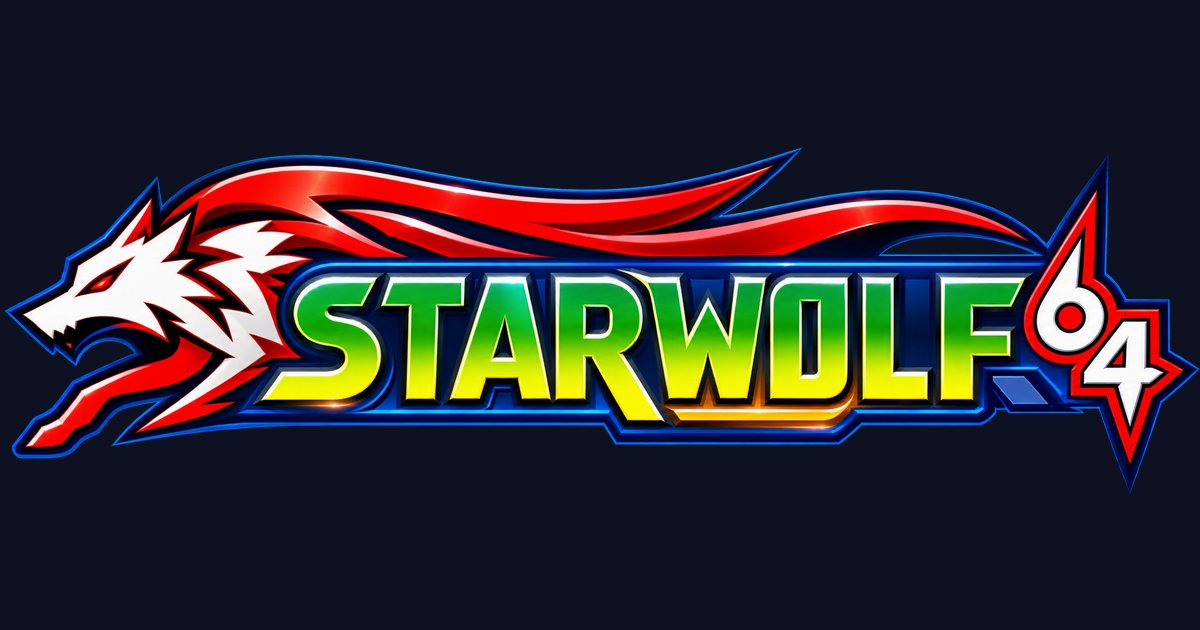
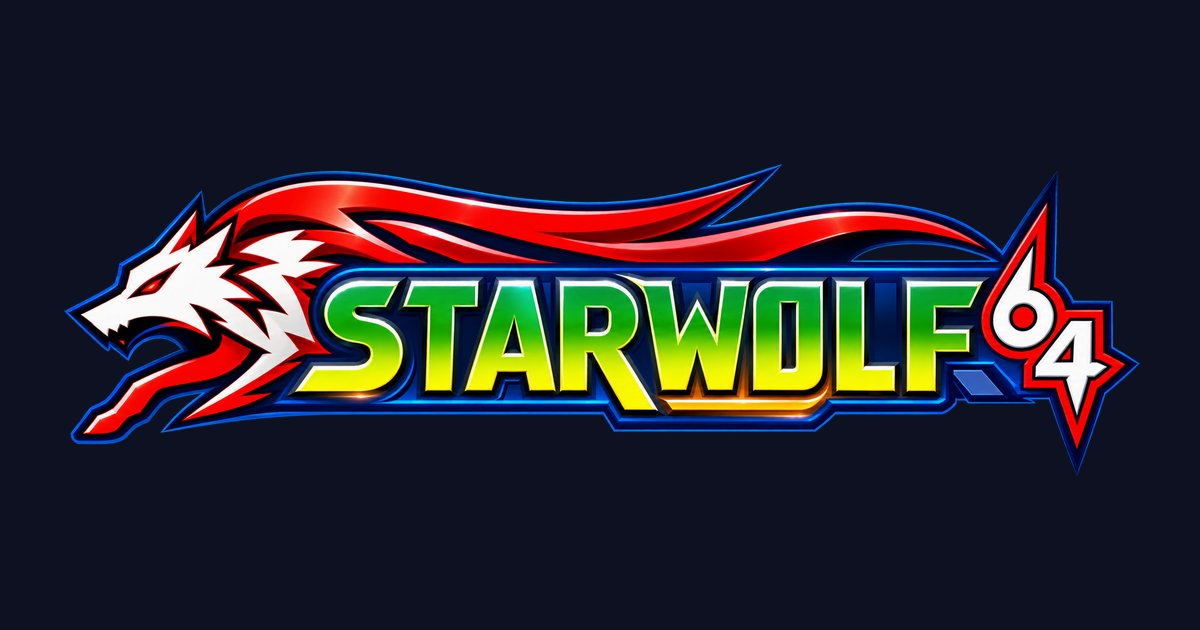
site(p1): review fixes: social art margins, count checks, CodeQL badge, provenance line
- Social preview and og:image: the banner art is 90% of the canvas width (1150 and
  1080 px), so link-card centre crops and rounded corners no longer clip the wolf's
  nose or the star tip. Measured art box: x 70..1215 (social), 64..1140 (og).
- build_stats.py: CHECKS now compare "<N> reference documents", "how-to guides",
  "learning paths" and "framework pages" in the scanned docs with stats.json. Page
  counts skip underscore files (docsify sidebars), and framework_pages counts only
  the object pages in mitre/<kind>/, so mitre/crosswalk.md is out (2,931 -> 2,930).
- How to Use: the hand-typed "139" reference-document counts are gone.
- README: CodeQL badge pinned to ?branch=main; the AI provenance line moved under
  the pitch, as docs/VOICE.md requires; the Nintendo sentence restored to the full
  docs/VOICE.md wording.
- scripts/, scores/ and research/ READMEs: small hand-typed counts reworded.
- HOME.md maintainer comment no longer says the README is free of counts.

Changed region(s): [[0.0, 0.2413, 1.0, 0.7841]]

diff --git a/scripts/build_brand_assets.py b/scripts/build_brand_assets.py
@@ -14,8 +14,8 @@ Exports (source -> file, size, format):
                                   -> starwolf64-hero-960.webp          960x320  WebP    site cover, small screens
   StarWolf64Version2Banner.png    -> starwolf64-hero-light-960.webp    960x320  WebP    light theme and print (P2)
   StarWolf64BannerTransparent.png -> starwolf64-logotype-480.png       480x160  PNG-8   compact text logotype
-  StarWolf64Version2Banner.png    -> social-1280x640.jpg              1280x640  JPEG    GitHub social preview
-                                  -> og-1200x630.jpg                  1200x630  JPEG    site og:image
+  StarWolf64Version2Banner.png    -> social-1280x640.jpg              1280x640  JPEG    GitHub social preview (art 1150 px wide)
+                                  -> og-1200x630.jpg                  1200x630  JPEG    site og:image (art 1080 px wide)
   StarWolf64BannerTransparent.png -> favicon-16.png, favicon-32.png, apple-touch-icon-180.png,
                                      icon-192.png, icon-512.png       the red "64" star, cut out of the logotype
 
@@ -146,8 +146,10 @@ def main() -> None:
     save_webp(scaled(d4, 960), "starwolf64-hero-960.webp")
     save_webp(scaled(v2, 960), "starwolf64-hero-light-960.webp")
     save_png8(scaled(logo, 480), "starwolf64-logotype-480.png")
-    save_jpeg(on_stage(v2, (1280, 640), 1280, NAVY), "social-1280x640.jpg")
-    save_jpeg(on_stage(v2, (1200, 630), 1200, NAVY), "og-1200x630.jpg")
+    # The art takes 90% of the width: X, LinkedIn and Slack centre-crop link cards to
+    # about 1.91:1 and round the corners, which would clip an edge-to-edge banner.
+    save_jpeg(on_stage(v2, (1280, 640), 1150, NAVY), "social-1280x640.jpg")
+    save_jpeg(on_stage(v2, (1200, 630), 1080, NAVY), "og-1200x630.jpg")
 
     mark = star_mark(logo)
     icon(mark, 16).save(os.path.join(OUT, "favicon-16.png"), optimize=True)

diff --git a/scripts/build_stats.py b/scripts/build_stats.py
@@ -68,15 +68,22 @@ def _library_counts():
             continue
         refs += 1
 
+    def page(f):
+        """A content page: not a section README and not docsify chrome (_sidebar.md)."""
+        base = f.rsplit("/", 1)[-1]
+        return base != "README.md" and not base.startswith("_")
+
     def folder(prefix):
         return sum(1 for f in files if f.startswith(prefix) and "/" not in f[len(prefix):]
-                   and f != prefix + "README.md")
+                   and page(f))
+    # Framework pages are the object pages in mitre/<kind>/ (techniques, groups, capec,
+    # ...). Pages at the mitre/ root, such as crosswalk.md, are not object pages.
     return {
         "reference_docs": refs,
         "guides": folder("guides/"),
         "learning_paths": folder("disciplines/"),
         "framework_pages": sum(1 for f in files if f.startswith("mitre/")
-                               and not f.endswith("/README.md")),
+                               and f.count("/") >= 2 and page(f)),
     }
 
 
@@ -146,6 +153,11 @@ CHECKS = [
     (r"([\d,]+)\s+mappings? to ATT", "engage_mappings"),
     (r"([\d,]+)\s+(?:MITRE ATT&CK\s+)?(?:intrusion\s+)?campaigns", "campaigns"),
     (r"([\d,]+)\s+(?:workbench\s+|navigator\s+)?layers", "navigator_layers"),
+    # the README "What's inside" nouns, so a hand-typed copy elsewhere cannot disagree
+    (r"([\d,]+)\s+reference documents?\b", "reference_docs"),
+    (r"([\d,]+)\s+(?:step-by-step\s+)?how-to guides?\b", "guides"),
+    (r"([\d,]+)\s+(?:guided\s+|discipline\s+)?learning paths?\b", "learning_paths"),
+    (r"([\d,]+)\s+(?:generated\s+)?framework pages?\b", "framework_pages"),
 ]
 # guides/HOW_TO_USE_THIS_LIBRARY.md is the onboarding walk-through and quotes library-wide
 # totals; the other guides quote relational subsets ("6 groups") the regexes would misread.

diff --git a/README.md b/README.md
@@ -4,13 +4,15 @@
 
 <p align="center">An open cybersecurity reference library, cross-referenced to MITRE ATT&amp;CK.</p>
 
+<p align="center">Drafted with an AI assistant from the sources cited; checked against them on 2026-10-17.</p>
+
 <div align="center">
 
 [Website](https://teamstarwolf.github.io/TeamStarWolf/) | [Browse references](INDEX.md) | [Explore ATT&CK](mitre/README.md) | [ATTACK-Navi](https://teamstarwolf.github.io/ATTACK-Navi/) | [Data and Navigator layers](data/README.md) | [Contribute](CONTRIBUTING.md)
 
 [![Link Check](https://github.com/TeamStarWolf/TeamStarWolf/actions/workflows/link-check.yml/badge.svg?branch=main)](https://github.com/TeamStarWolf/TeamStarWolf/actions/workflows/link-check.yml)
 [![Validate Data Files](https://github.com/TeamStarWolf/TeamStarWolf/actions/workflows/validate-data.yml/badge.svg?branch=main)](https://github.com/TeamStarWolf/TeamStarWolf/actions/workflows/validate-data.yml)
-[![CodeQL](https://github.com/TeamStarWolf/TeamStarWolf/actions/workflows/github-code-scanning/codeql/badge.svg)](https://github.com/TeamStarWolf/TeamStarWolf/actions/workflows/github-code-scanning/codeql)
+[![CodeQL](https://github.com/TeamStarWolf/TeamStarWolf/actions/workflows/github-code-scanning/codeql/badge.svg?branch=main)](https://github.com/TeamStarWolf/TeamStarWolf/actions/workflows/github-code-scanning/codeql)
 [![Deploy site](https://github.com/TeamStarWolf/TeamStarWolf/actions/workflows/pages/pages-build-deployment/badge.svg)](https://github.com/TeamStarWolf/TeamStarWolf/actions/workflows/pages/pages-build-deployment)
 
 </div>
@@ -36,7 +38,7 @@ New here? [How to use this library](guides/HOW_TO_USE_THIS_LIBRARY.md) shows wha
 | Reference documents | 155 | One topic each: its terms, tooling, and the frameworks and guidance that apply | [Reference index](INDEX.md) |
 | How-to guides | 21 | One task, step by step, with the time it takes, what you need, and what you produce | [Guides](guides/README.md) |
 | Learning paths | 47 | An order of study for one discipline, with training, tools, books, and certifications | [Learning paths](disciplines/README.md) |
-| Framework pages | 2,931 | One page per ATT&CK, CAPEC, D3FEND, ATLAS, and F3 object, generated from MITRE data | [Framework pages](mitre/README.md) |
+| Framework pages | 2,930 | One page per ATT&CK, CAPEC, D3FEND, ATLAS, and F3 object, generated from MITRE data | [Framework pages](mitre/README.md) |
 <!-- stats:end -->
 
 Where a published mapping exists, a technique page links the NIST SP 800-53 controls, MITRE detection strategies and analytics, CAPEC attack patterns, and D3FEND countermeasures that relate to it. The same relationships ship as JSONL files and ATT&CK Navigator layers. [About the data](ABOUT_THE_DATA.md) gives their sources, the ATT&CK version each part is built from (v19.2 for the data and framework pages), and what CI checks. The library also holds [vendor tool pages](tools/README.md), [AI tooling notes](ai-tooling/README.md), [case studies](case-studies/README.md), [tools research](tools-research/README.md), and [research notes](research/README.md).
@@ -53,7 +55,7 @@ Where a published mapping exists, a technique page links the NIST SP 800-53 cont
 
 The references summarize third-party frameworks, standards, and publications, and they can fall behind upstream changes, so check the primary source before relying on a detail, particularly version-specific facts, regulatory requirements, and anything you intend to run. Offensive techniques and tooling are described for authorized testing, education, and defensive research; do not use them against systems you do not have permission to test. The vendor-to-control mappings are this library's own editorial assessments, not vendor statements or evidence of coverage.
 
-MITRE ATT&CK, ATLAS, CAPEC, CWE, D3FEND, EMB3D, Engage, F3, and FiGHT are maintained by The MITRE Corporation. ATT&CK® and MITRE ATT&CK® are registered trademarks of The MITRE Corporation. This project is not affiliated with or endorsed by MITRE. The TeamStarWolf name and STARWOLF 64 art are naming and art only; Star Fox is a Nintendo trademark, and this project is not affiliated with or endorsed by Nintendo.
+MITRE ATT&CK, ATLAS, CAPEC, CWE, D3FEND, EMB3D, Engage, F3, and FiGHT are maintained by The MITRE Corporation. ATT&CK® and MITRE ATT&CK® are registered trademarks of The MITRE Corporation. This project is not affiliated with or endorsed by MITRE. The TeamStarWolf name and STARWOLF 64 art are naming and art only, never a claim about people, affiliations, or capability. Star Fox is a Nintendo trademark; this project is not affiliated with or endorsed by Nintendo.
 
 ## Cloning on Windows
 
@@ -62,5 +64,3 @@ Microsoft Defender quarantines MALWARE_ANALYSIS_REFERENCE.md on checkout because
 ## Contributing, license, and citation
 
 Corrections and additions are welcome through [issues](https://github.com/TeamStarWolf/TeamStarWolf/issues) and pull requests; see [CONTRIBUTING](CONTRIBUTING.md), the [voice guide](docs/VOICE.md), the [code of conduct](CODE_OF_CONDUCT.md), and the [security policy](SECURITY.md). Changes are recorded in the [changelog](CHANGELOG.md). Original content is released under the [MIT License](https://github.com/TeamStarWolf/TeamStarWolf/blob/main/LICENSE); data and text drawn from MITRE and other sources stay under their owners' terms, listed in [THIRD_PARTY_NOTICES.md](THIRD_PARTY_NOTICES.md). To cite the library, use [CITATION.cff](https://github.com/TeamStarWolf/TeamStarWolf/blob/main/CITATION.cff) or the "Cite this repository" button on the repository page.
-
-Drafted with an AI assistant from the sources cited; checked against them on 2026-10-17.

diff --git a/guides/HOW_TO_USE_THIS_LIBRARY.md b/guides/HOW_TO_USE_THIS_LIBRARY.md
@@ -33,7 +33,7 @@ The repo is one flat root of reference documents plus a few purposeful folders:
 
 | Location | What lives there |
 |---|---|
-| Root `*.md` files | The 139 reference documents: one deep, self-contained doc per domain (e.g. [Incident Response](/INCIDENT_RESPONSE_REFERENCE.md), [Cloud Security](/CLOUD_SECURITY_REFERENCE.md), [SIEM](/SIEM_REFERENCE.md)) |
+| Root `*.md` files | The reference documents: one deep, self-contained doc per domain (e.g. [Incident Response](/INCIDENT_RESPONSE_REFERENCE.md), [Cloud Security](/CLOUD_SECURITY_REFERENCE.md), [SIEM](/SIEM_REFERENCE.md)) |
 | `disciplines/` | 47 guided learning paths that sequence those references in the right order; hub at [Discipline Paths](/disciplines/README.md) |
 | `guides/` | Step-by-step how-to guides (you are reading one): procedures, where the references are doctrine |
 | `techniques/` | Per-technique ATT&CK detail pages, one file per tactic: hub at [Technique Detail Pages](/techniques/README.md) |
@@ -50,7 +50,7 @@ Checkpoint: Given any question ("how does Kerberoasting detection work", "which 
 ## Step 3: Find anything three ways
 
 1. Search. On the live site, press `/` (or click the search box) and type a term or an ATT&CK technique ID: `T1059` works, and so does `Kerberoasting`. Sub-techniques use dot notation: `T1059.001`. Press `Esc` to clear.
-2. The Reference Index. [INDEX](/INDEX.md) is the complete alphabetical listing of all 139 documents with one-line descriptions: the fastest way to scan what exists.
+2. The Reference Index. [INDEX](/INDEX.md) is the complete alphabetical listing of every reference document with one-line descriptions: the fastest way to scan what exists.
 3. The sidebar and Quick router. The sidebar groups every doc by domain (Coverage & Data, Defense & Detection, Offensive Security, GRC, and so on). The homepage Quick router does the same by *goal*: "Build detections", "Respond now", "Harden", "Map coverage & gaps".
 
 Checkpoint: Searching `T1059` returns hits across the Technique Atlas, detection strategies, and threat group profiles: the same technique seen from several angles.

diff --git a/scripts/README.md b/scripts/README.md
@@ -15,7 +15,7 @@ Drafted with an AI assistant from the sources cited; checked against them on 202
 | `validate_jsonl.py` | Validates every JSONL file: JSON per line, unique keys, the edge contract in [data/EDGES.md](/data/EDGES.md), live ATT&CK ids, and counts that match their edge tables | Validate Data Files: JSONL edge tables |
 | `generate_mitre_pages.py` | Generates the `mitre/` framework pages and their indexes from `data/` | Validate Data Files: generated page trees (`--only all --check`) and corpus signal (`--verify-corpus`) |
 | `generate_technique_detail_pages.py` | Generates `techniques/` and `detections/strategies/` | Validate Data Files: generated page trees (`--check`) |
-| `compute_coverage.py` | Writes the four coverage files in `scores/` | Validate Data Files: Navigator layers (`--check`) |
+| `compute_coverage.py` | Writes the coverage files in `scores/` | Validate Data Files: Navigator layers (`--check`) |
 | `build_priority_gaps.py` | Writes the priority-gap page and JSON in `scores/` and the layers in `navigator/analytics/` | Validate Data Files: headline-number drift guard (`--check`) |
 | `build_navigator_layers.py` | Generates the vendor coverage layer, normalizes the curated layers to v19.2, and writes `navigator/index.md` | Validate Data Files: Navigator layers (`--check`) |
 | `validate_navigator.py` | Checks every Navigator layer's shape, domain, ATT&CK version, technique ids, and tactics against the data | Validate Data Files: Navigator layers |

diff --git a/research/README.md b/research/README.md
@@ -2,7 +2,7 @@
 
 Drafted with an AI assistant from the sources cited; checked against them on 2026-10-17.
 
-> Working notes and catalogues that feed the library: conference and training indexes, tool-coverage studies, the curated GitHub Stars Lists, and field notes from building projects in public. These pages are hand-written; two small datasets and the scripts that built them sit beside them.
+> Working notes and catalogues that feed the library: conference and training indexes, tool-coverage studies, the curated GitHub Stars Lists, and field notes from building projects in public. These pages are hand-written; small datasets and the scripts that built them sit beside them.
 
 ## What is here
 

diff --git a/scores/README.md b/scores/README.md
@@ -22,7 +22,7 @@ Drafted with an AI assistant from the sources cited; checked against them on 202
 Both scripts read only committed data (`data/attack/technique_profiles.jsonl`, `data/attack/superseded_by.jsonl`, the edge tables, and `data/vendor_to_technique.jsonl`), use only the Python standard library, and produce byte-identical output for the same inputs. Each page records the SHA-256 prefix of every input it was built from.
 
 ```
-python scripts/compute_coverage.py       # rewrites the four coverage files
+python scripts/compute_coverage.py       # rewrites the coverage files
 python scripts/build_priority_gaps.py    # rewrites the priority-gap page, its JSON, and the analytics layers
 ```
 

diff --git a/HOME.md b/HOME.md
@@ -1,7 +1,7 @@
 <!--
   HOME.md: the site homepage (docsify renders this at "/"; README.md stays the GitHub face).
-  Keep this page factual and free of headline counts; the README and _coverpage.md
-  follow the same style.
+  Keep this page factual and free of headline counts, as _coverpage.md is. The README's
+  counts are written by scripts/build_stats.py; never hand-type one here.
   Section "Browse by domain" mirrors _sidebar.md groups; section "Discipline paths"
   mirrors disciplines/*.md and disciplines/README.md.
   Link rules: raw-HTML hrefs use hash form (#/FOO, no .md); external links carry
